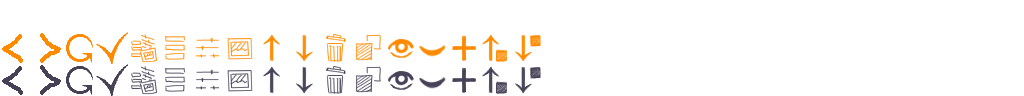
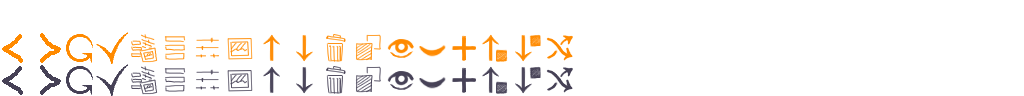
Fix small bug, add "random macro" button

Changed region(s): [[0.5312, 0.6875, 0.5625, 0.9375], [0.5312, 0.375, 0.5625, 0.625]]

diff --git a/new-area/image-creator/index.html b/new-area/image-creator/index.html
@@ -69,7 +69,7 @@
 			<div class=help>
 				Select, link or paste an image to add convincing FromSoftware text effects and game overlays to it.
 			</div>
-			<div class='help firefox-warning' style=color:#ff8e8e hidden>
+			<div class="help firefox-warning" style=color:#ff8e8e hidden>
 				Warning: On Firefox certain HTML canvas effects and filters don't work as intended.
 				It is recommended to turn off hardware acceleration, or to open this page in a chromium browser instead.
 			</div>
@@ -77,8 +77,8 @@
 
 			<div class=canvas-wrapper>
 				<div id=canvas-overlay>
-					<div class='grabby position-grabby' hidden></div>
-					<div class='grabby scale-grabby' hidden></div>
+					<div class="grabby position-grabby" hidden></div>
+					<div class="grabby scale-grabby" hidden></div>
 				</div>
 				<canvas id=canvas class=big width=1920px height=1080px>
 			</div>
@@ -130,6 +130,7 @@
 				<div>
 					<span class="input-title macro-select-title" style=>Macro type:</span>
 					<select name=macro-type></select>
+					<button class="reset-button random-macro-button" name="random-macro" title="Switch to random"></button>
 				</div>
 				<div>
 					<span class="input-title macro-select-title">Game:</span>
@@ -409,7 +410,7 @@
 					<div class=smol>
 						<span class=input-title>Type:</span>
 						<button class=reset-button></button>
-						<select name=type as=float default=1>
+						<select name=type as=float default=0>
 							<option value=0>Poison</option>
 							<option value=1>Scarlet Rot</option>
 							<option value=2>Bleed</option>
@@ -586,25 +587,24 @@
 				<h3> Layers </h3>
 				
 				<div id=layers-controls>
-					<button class="soulsy-box" name="moveUp" disabled>
+					<button class="soulsy-box" name="moveUp" title="Move layer up" disabled>
 						<div class="icon icon-move-up"></div>
 					</button>
-					<button class="soulsy-box" name="moveDown" disabled>
+					<button class="soulsy-box" name="moveDown" title="Move layer down" disabled>
 						<div class="icon icon-move-down"></div>
 					</button>
-					<button class="soulsy-box" name="duplicate">
+					<button class="soulsy-box" name="duplicate" title="Duplicate layer">
 						<div class="icon icon-plus"></div>
 					</button>
-					<button class="soulsy-box" name="delete" disabled>
+					<button class="soulsy-box" name="delete" title="Delete layer" disabled>
 						<div class="icon icon-bin"></div>
 					</button>
-					<button class="soulsy-box" name="hide">
+					<button class="soulsy-box" name="hide" title="Hide/unhide layer">
 						<div class="icon icon-eye-open"></div>
 					</button>
 				</div>
-				<br>
 				<div id=layers-container>
-
+					<!-- Elements representing layers go here -->
 				</div>
 			</div>
 

diff --git a/new-area/image-creator/macroGenerator.js b/new-area/image-creator/macroGenerator.js
@@ -260,7 +260,7 @@ class Sliders {
             /// Assign and remember its "true default" (=HTML-assigned default)
             const trueDefault = slider.getAttribute('default')
             slider.value = slider.default = slider.trueDefault = trueDefault
-            if( trueDefault )
+            if( trueDefault !== null )
                 this.trueDefaults[slider.name] = slider.converter.parse(trueDefault)
 
             if( slider.type === 'checkbox' ) slider.checked = slider.value
@@ -491,6 +491,10 @@ class MacroGenerator {
         this.adjustCaseCheckbox.onchange = redraw
         this.resolutionCheckbox = my('input', 'limit-resolution')
         this.resolutionCheckbox.onchange = redraw
+
+        for (const randomMacroButton of element.getElementsByClassName('random-macro-button')) {
+            randomMacroButton.onclick = this.selectRandomLayerType.bind(this)
+        }
 
         //// SLIDERS
         this.macroSliders = element.getElementsByTagName('DIV').namedItem('macro-sliders')
@@ -978,12 +982,17 @@ class MacroGenerator {
     }
 
     /** @param {DrawableLayer} layer */
-    setLayerType(layer) {
+    setLayerType(layer, redraw=false) {
         this.macroTypeSelect.value = layer.type
         this.gameSelect.value = layer.game
         this.presetSelects[layer.type][layer.game].value = layer.preset
 
-        this.onMacroTypeChange(null, false)
+        this.onMacroTypeChange(null, redraw)
+    }
+
+    selectRandomLayerType() {
+        const layer = layerTypes[Math.floor(Math.random()*layerTypes.length)]
+        this.setLayerType(layer, true)
     }
 
     /* ======================= DRAWING ======================= */

diff --git a/new-area/new-area.css b/new-area/new-area.css
@@ -595,14 +595,20 @@ canvas.big {
     background: none;
     background-image: url(graphics/soulsy-icons.png);
     background-size: 3200% 300%;
-    background-position: -200% -100%;   /* Orange 🔄 */
+    background-position-x: -200%;   /* 🔄 */
+    background-position-y: -100%;   /* Orange */
 }
-.reset-button:hover {
-    background-position: -200% 0;       /* White 🔄 */
-}
-.reset-button:disabled {
-    cursor: initial;
-    background-position: -200% -200%;   /* Greyish 🔄 */
+    .reset-button:hover {
+        background-position-y: 0;       /* White */
+    }
+    .reset-button:disabled {
+        cursor: initial;
+        background-position-y: -200%;   /* Greyish */
+    }
+
+.random-macro-button {
+    float: none;
+    background-position-x: -1700%;   /* Orange 🔀 */
 }
 
 #layers-container {
